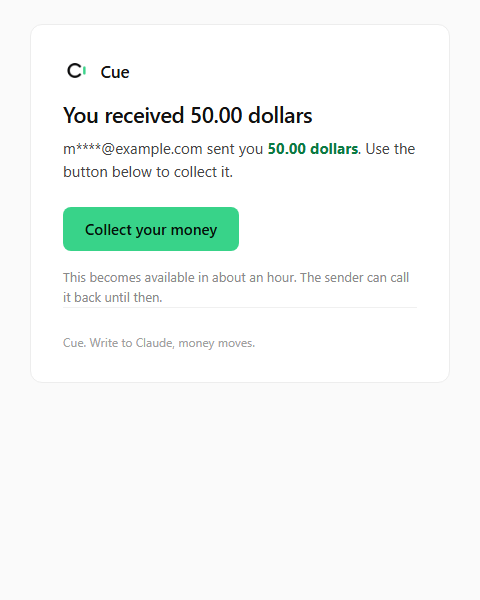
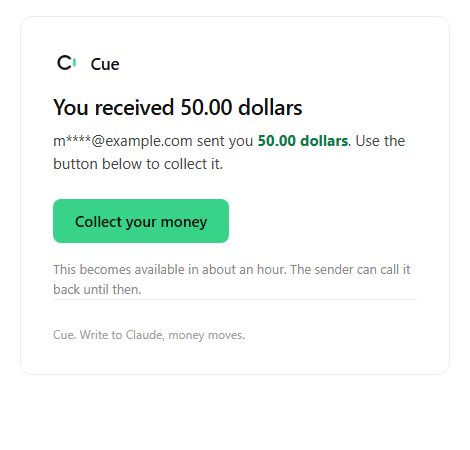
redesign: typographic confirmation and balance pass

Changed region(s): [[0.0894, 0.0933, 0.8936, 0.6533], [0.1191, 0.7156, 0.5064, 0.7778]]

diff --git a/src/app/typed-hero.tsx b/src/app/typed-hero.tsx
@@ -57,8 +57,9 @@ export function TypedHero() {
         </span>
       </h1>
 
-      {/* Claude's reply and the resulting card, appearing once typing finishes.
-          The whole block is one conversation, all left aligned to the sentence. */}
+      {/* Reply, then a balanced band: the amount as pure type on the left, the
+          single action on the right, so both halves of the lower hero carry
+          weight. All of it appears once the sentence finishes typing. */}
       <div
         className={`transition-all duration-700 ease-out ${
           done ? "translate-y-0 opacity-100" : "translate-y-2 opacity-0"
@@ -77,47 +78,33 @@ export function TypedHero() {
           </p>
         </div>
 
-        {/* Confirmation card, left aligned to the sentence, allowed to bleed
-            past the container on the right (notably on narrow screens). */}
-        <div className="mt-6 sm:pl-[46px]">
-          <div className="surface-gradient -mr-5 w-full max-w-md overflow-hidden rounded-2xl border border-primary/25 bg-elevated p-5 shadow-[0_0_0_1px_rgb(56_211_137/0.06),0_28px_60px_-30px_rgb(56_211_137/0.5)] sm:mr-0">
-            <div className="flex items-baseline justify-between gap-3">
-              <span className="text-[10px] font-medium tracking-[0.14em] text-subtle-foreground uppercase">
-                Sent
+        <div className="mt-10 flex flex-col gap-8 sm:flex-row sm:items-center sm:justify-between sm:gap-6">
+          {/* The confirmation, expressed typographically, no box. */}
+          <div>
+            <p className="tabular font-display text-[2.75rem] leading-none font-semibold tracking-tightest text-primary">
+              $50.00
+            </p>
+            <p className="mt-3 text-sm text-muted-foreground">to jack@gmail.com</p>
+            <p className="mt-1 flex items-center gap-2 text-sm text-muted-foreground">
+              <span className="text-warning">
+                <LiveDot />
               </span>
-              <span className="tabular text-3xl font-semibold tracking-tightest text-primary">
-                $50.00
-              </span>
-            </div>
-
-            <dl className="mt-4 space-y-2 text-sm">
-              <div className="flex items-center justify-between gap-3">
-                <dt className="text-muted-foreground">To</dt>
-                <dd className="min-w-0 truncate">jack@gmail.com</dd>
-              </div>
-              <div className="flex items-center justify-between gap-3">
-                <dt className="text-muted-foreground">Status</dt>
-                <dd className="flex items-center gap-2 text-warning">
-                  <LiveDot />
-                  <span className="text-foreground">Waiting to be collected</span>
-                </dd>
-              </div>
-            </dl>
+              waiting to be collected
+            </p>
           </div>
-        </div>
-      </div>
 
-      <div className="mt-9 sm:pl-[46px]">
-        <Link
-          href="/dashboard"
-          className="ring-focus group inline-flex h-12 items-center justify-center gap-1.5 rounded-lg bg-primary px-7 text-[15px] font-medium text-primary-foreground shadow-[0_10px_36px_-12px_rgb(56_211_137/0.8)] transition-all duration-150 hover:bg-[#45e096] active:scale-[0.98]"
-        >
-          Open Dashboard
-          <ArrowRight
-            aria-hidden="true"
-            className="size-4 transition-transform duration-150 group-hover:translate-x-0.5"
-          />
-        </Link>
+          {/* Single action, pushed right onto the same band as the amount. */}
+          <Link
+            href="/dashboard"
+            className="ring-focus group inline-flex h-12 shrink-0 items-center justify-center gap-1.5 self-start rounded-lg bg-primary px-7 text-[15px] font-medium text-primary-foreground shadow-[0_10px_36px_-12px_rgb(56_211_137/0.8)] transition-all duration-150 hover:bg-[#45e096] active:scale-[0.98] sm:self-auto"
+          >
+            Open Dashboard
+            <ArrowRight
+              aria-hidden="true"
+              className="size-4 transition-transform duration-150 group-hover:translate-x-0.5"
+            />
+          </Link>
+        </div>
       </div>
     </section>
   );

diff --git a/src/app/page.tsx b/src/app/page.tsx
@@ -70,7 +70,7 @@ function RecipientSection() {
       aria-label="What the recipient sees"
       className="relative border-t border-border/50 bg-background-sunken"
     >
-      <div className="mx-auto grid w-full max-w-6xl items-center gap-14 px-5 py-24 sm:px-8 lg:grid-cols-[1fr_360px] lg:gap-20 lg:py-28">
+      <div className="mx-auto grid w-full max-w-6xl items-start gap-14 px-5 py-24 sm:px-8 lg:grid-cols-[1fr_240px] lg:gap-20 lg:py-28">
         <div>
           <p className="text-[11px] font-medium tracking-[0.32em] text-muted-foreground uppercase">
             The other side
@@ -89,26 +89,19 @@ function RecipientSection() {
           </ul>
         </div>
 
-        {/* Evidence: the actual email, tilted and offset, bleeding right. */}
-        <div className="relative mx-auto w-full max-w-[340px] lg:mx-0 lg:mr-[-6%] lg:w-[360px]">
-          <div className="glow-soft -inset-6 -z-10" />
-          <div className="overflow-hidden rounded-2xl border border-border-strong/70 bg-card shadow-[0_40px_90px_-40px_rgb(0_0_0/1)] rotate-[2.5deg] transition-transform duration-300 hover:rotate-0">
-            <div className="flex items-center gap-1.5 border-b border-border/60 px-4 py-2.5">
-              <span aria-hidden="true" className="size-2 rounded-full bg-border-hover" />
-              <span aria-hidden="true" className="size-2 rounded-full bg-border-hover" />
-              <span aria-hidden="true" className="size-2 rounded-full bg-border-hover" />
-              <span className="ml-2 text-[11px] text-subtle-foreground">Inbox</span>
-            </div>
-            <div className="relative aspect-[4/5] w-full">
-              <Image
-                src="/screens/email.png"
-                alt="The email a recipient receives, showing the amount and a button to collect it"
-                fill
-                sizes="360px"
-                className="object-cover object-top"
-              />
-            </div>
-          </div>
+        {/* Evidence: the email card itself, no window chrome, tilted and
+            floating, allowed to bleed past the container on the right. Raised to
+            sit level with the statement rather than below it. */}
+        <div className="relative mx-auto mt-1 w-full max-w-[240px] lg:mx-0 lg:mr-[-8%] lg:w-[240px]">
+          <div className="glow-soft -inset-8 -z-10" />
+          <Image
+            src="/screens/email.png"
+            alt="The email a recipient receives, showing the amount and a button to collect it"
+            width={470}
+            height={450}
+            sizes="240px"
+            className="h-auto w-full rotate-[3deg] rounded-xl shadow-[0_40px_90px_-35px_rgb(0_0_0/1)] ring-1 ring-black/5 transition-transform duration-300 hover:rotate-0"
+          />
         </div>
       </div>
     </section>
